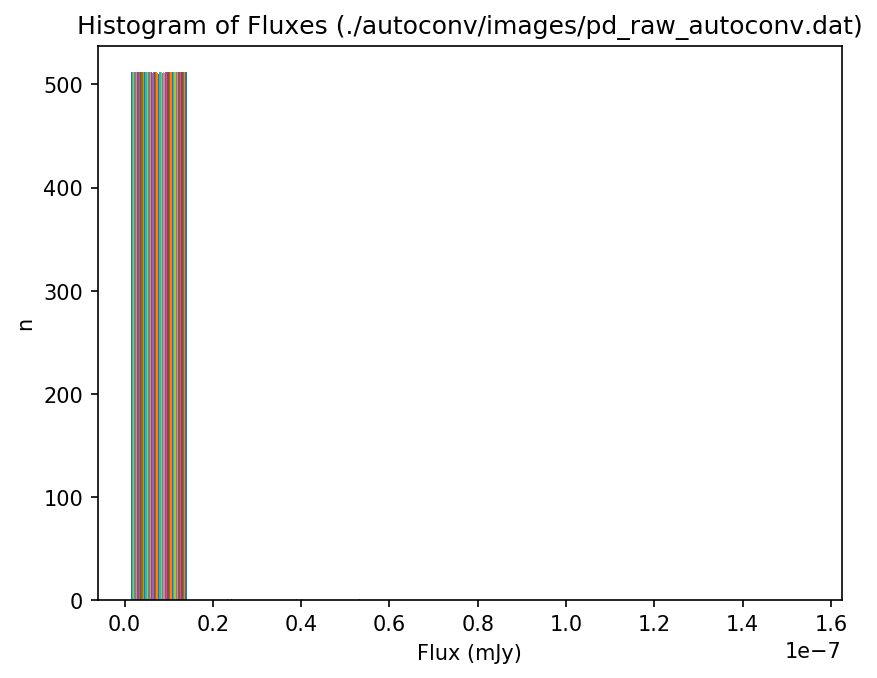
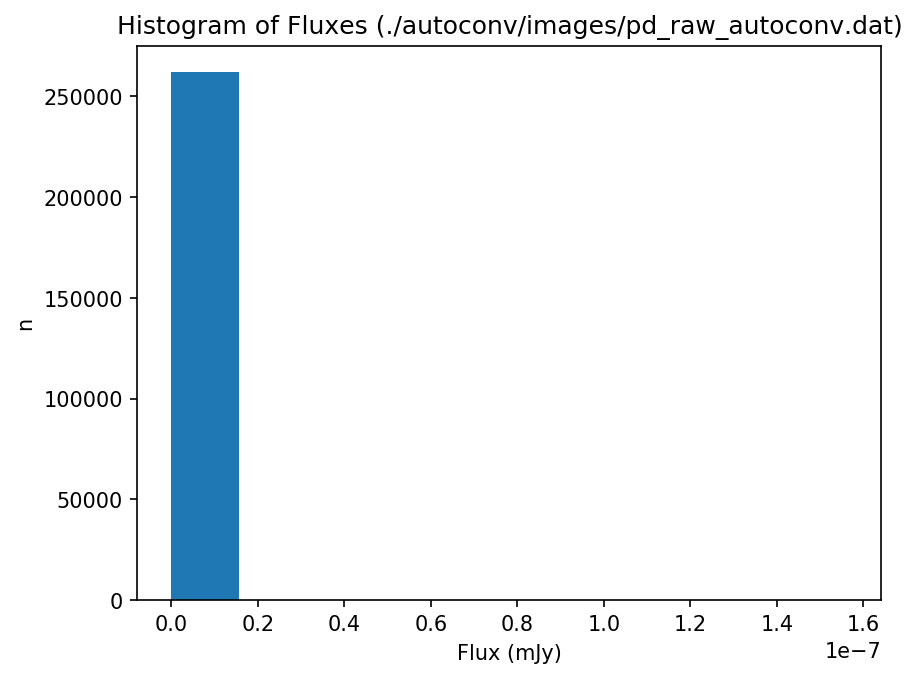
flattened array before plotting histogram in flux_hist.py

diff --git a/output/flux_hist.py b/output/flux_hist.py
@@ -16,7 +16,7 @@ else:
     outfile = args.outfile
 print('Outfile: '+outfile)
 
-image_data = np.loadtxt(args.filename)
+image_data = np.ndarray.flatten(np.loadtxt(args.filename))
 
 fig = plt.figure()
 ax = fig.add_subplot(111)
